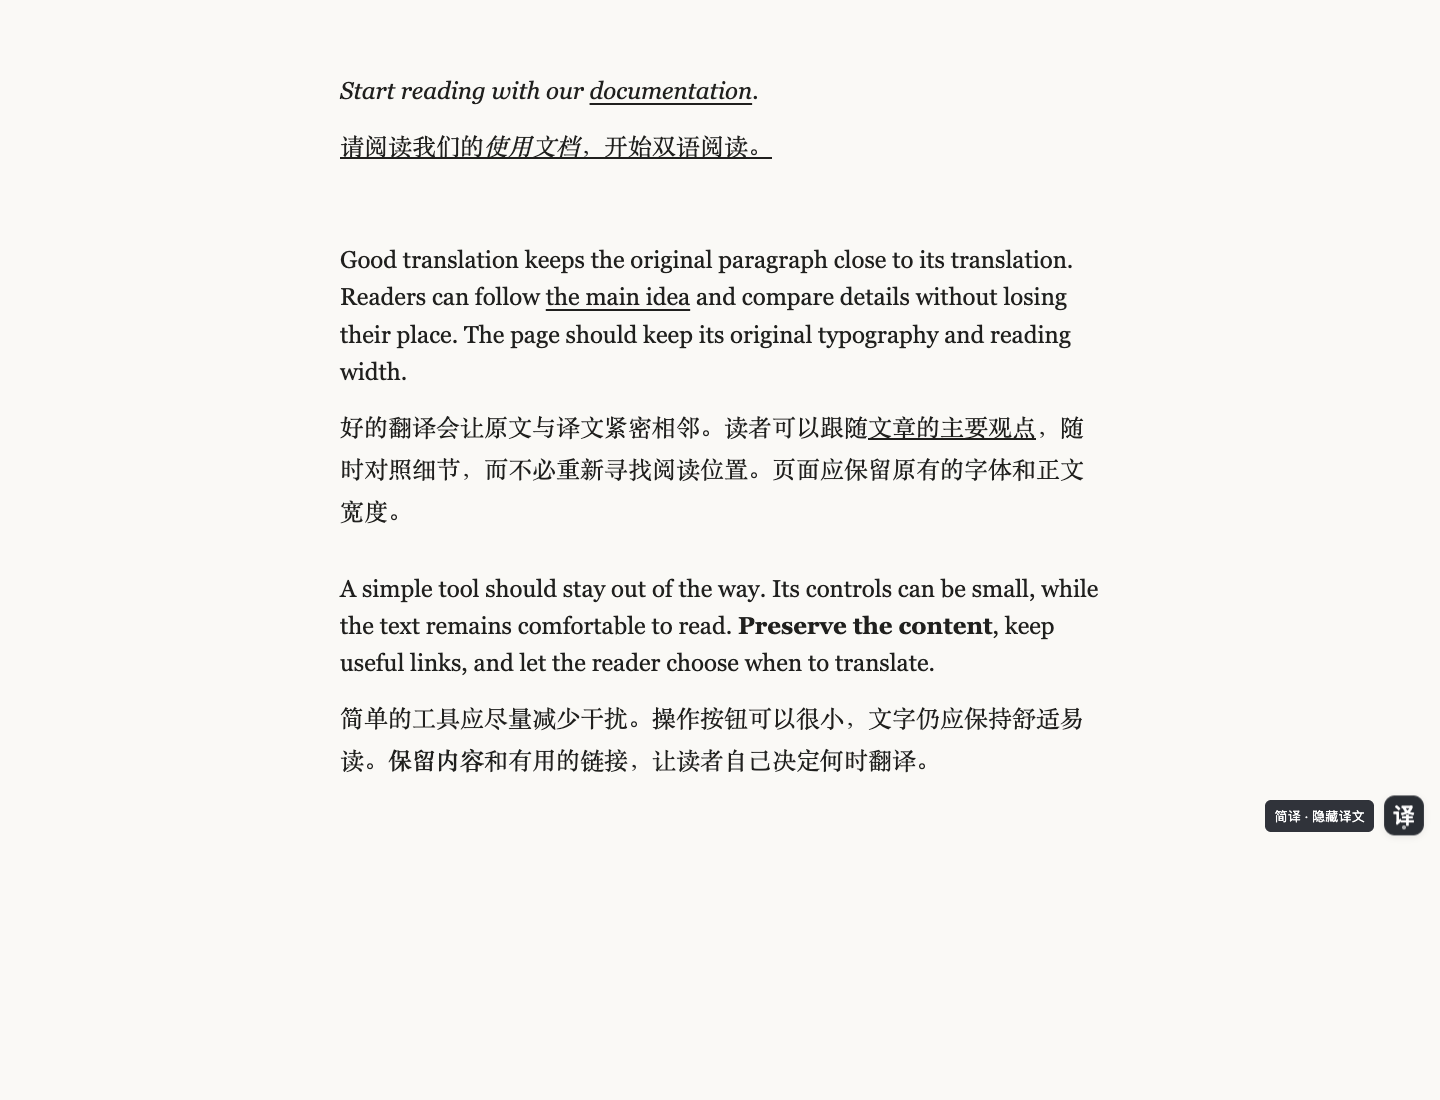
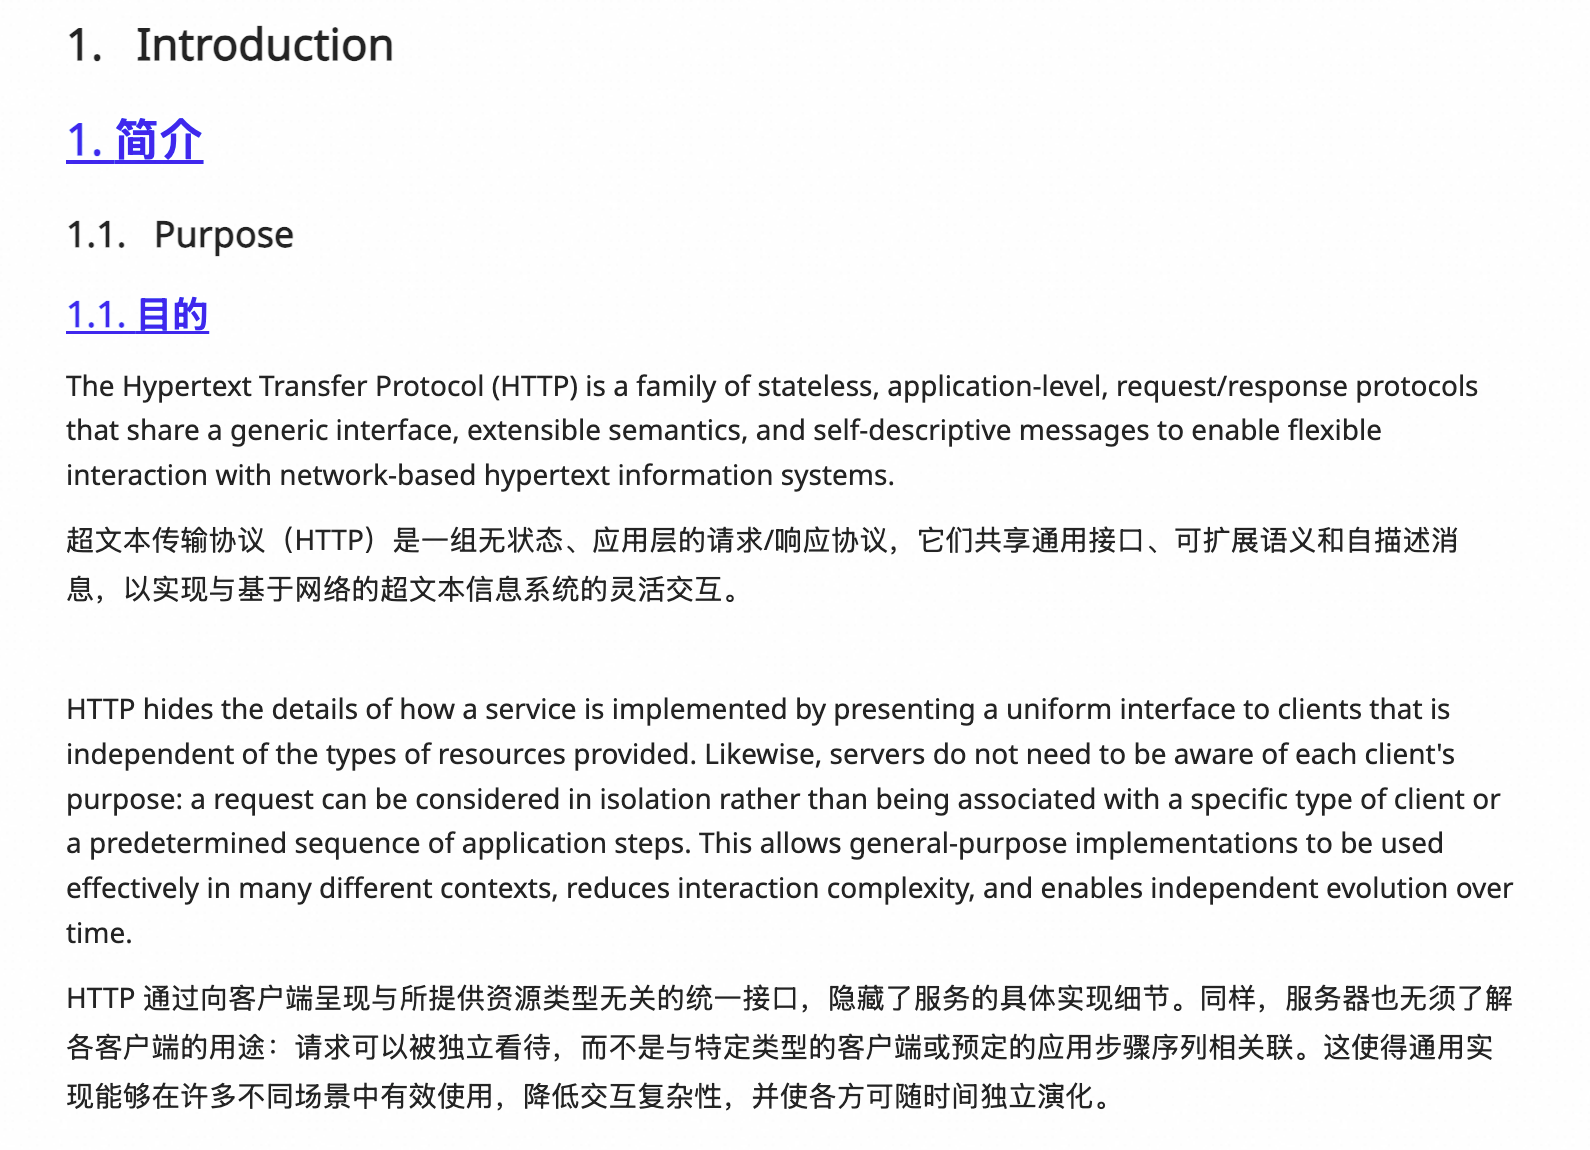
Use real webpage screenshot and remove PDF preview from README

diff --git a/README.md b/README.md
@@ -11,15 +11,9 @@
 
 ## 使用效果
 
-以下为示例文本与预置译文在插件中的显示效果，实际翻译结果取决于所选模型。
+网页双语阅读：原文与译文逐段对应，阅读时可以随时对照。
 
-**网页双语阅读**：原文与译文相邻，保留正文样式和链接。
-
-![网页双语阅读示例：原文下方显示中文译文，右侧提供悬浮按钮](docs/images/web-reading.png)
-
-**PDF 对照阅读**：左侧保留原始页面，右侧显示对应译文。
-
-![PDF 对照阅读示例：左侧英文原文，右侧中文译文](docs/images/pdf-reading.png)
+![网页双语阅读效果：HTTP 文档的英文标题和段落下方显示对应中文译文](docs/images/web-reading.png)
 
 ## 安装
 
